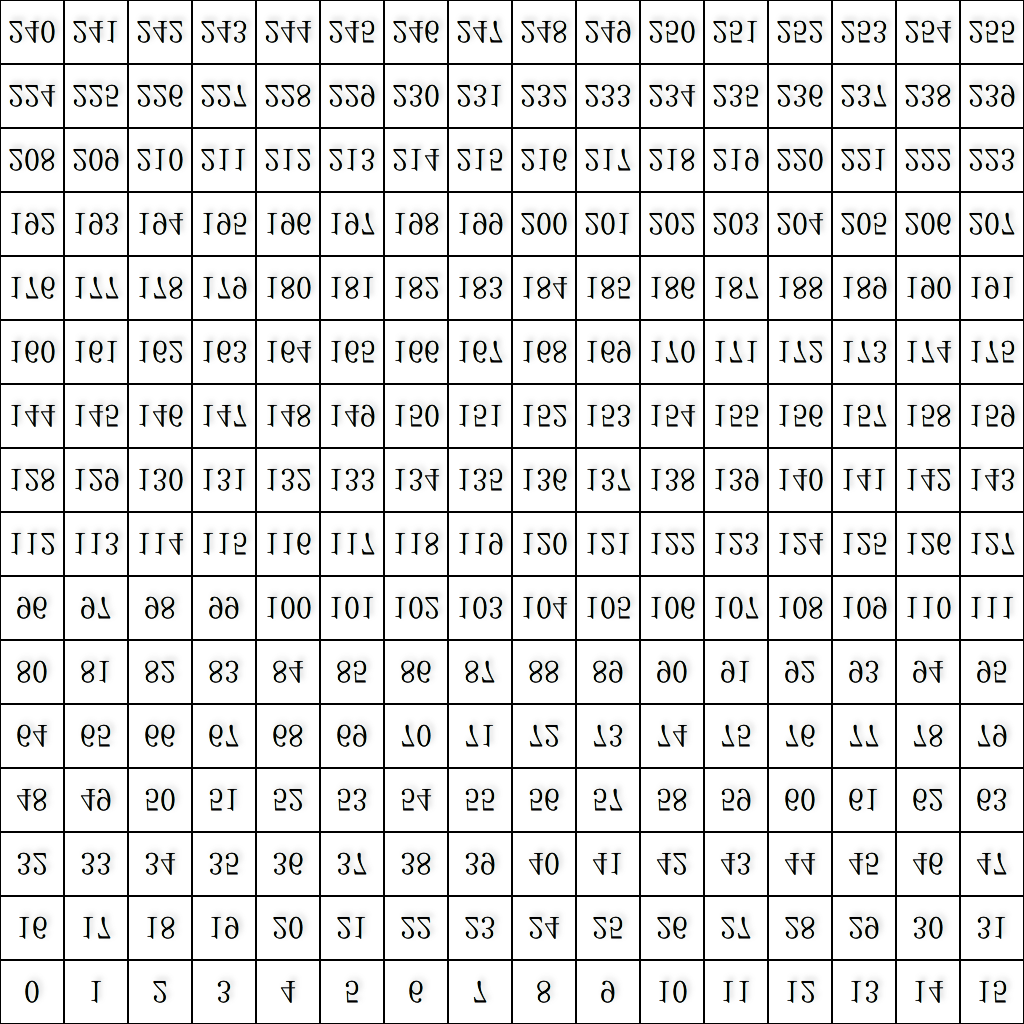
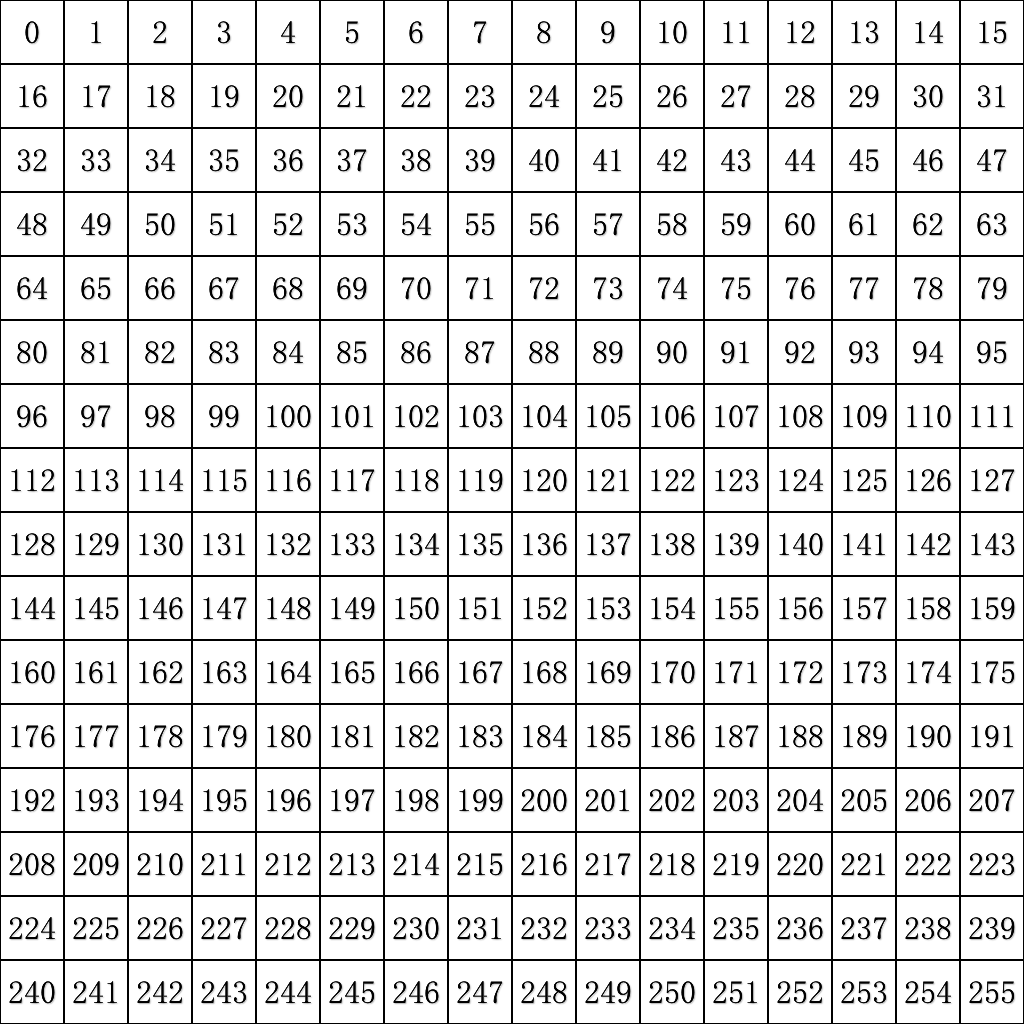
+test code

Changed region(s): [[0.0, 0.0, 1.0, 1.0], [0.5938, 0.4688, 0.625, 0.5312]]

diff --git a/chapter02/quickrendertoimage/myqml/quickrendertoimage/TestInputQMLFile.qml b/chapter02/quickrendertoimage/myqml/quickrendertoimage/TestInputQMLFile.qml
@@ -30,9 +30,9 @@ Rectangle{
 
                 DropShadow {
                         anchors.fill: parent
-                        horizontalOffset: 3
-                        verticalOffset: 3
-                        radius: 8.0
+                        horizontalOffset: 1
+                        verticalOffset: 1
+                        radius: 3.0
                         samples: 17
                         color: Qt.rgba(0.3,0.3,0.3,0.3)
                         source: _id_text

diff --git a/chapter02/quickrendertoimage/sstd_Window.cpp b/chapter02/quickrendertoimage/sstd_Window.cpp
@@ -18,6 +18,84 @@ namespace sstd {
 }
 
 namespace {
+    /*这里不做缓存优化...*/
+    void flipUpDownByComputShader(GLuint varTexture,const QSize & varSize) {
+        const auto varComputeHeight = ( varSize.height() >> 1 );
+        if (varComputeHeight < 0) {
+            return;
+        }
+        GLuint varProgram{0};
+        varProgram = glCreateProgram();
+
+        {
+            auto varShaderSource = u8R"___(
+#version 450
+
+layout(local_size_x = 1       , 
+       local_size_y = 1       ,
+       local_size_z = 1    ) in ;
+
+layout(binding = 0,rgba8ui) uniform uimage2D argImageInputOutput;
+layout(location = 1)        uniform int argImageHeight;
+
+void main(void) {
+    ivec2 varPos0 = ivec2( gl_WorkGroupID.xy ) ;
+    ivec2 varPos1 = ivec2( varPos0.x,argImageHeight - varPos0.y );
+    uvec4 varColor0 = imageLoad(argImageInputOutput,varPos0 );
+    uvec4 varColor1 = imageLoad(argImageInputOutput,varPos1 );
+    imageStore(argImageInputOutput,varPos0,varColor1);
+    imageStore(argImageInputOutput,varPos1,varColor0);
+}
+
+/*一个简单的图像上下颠倒shader*/
+
+)___"sv;
+
+            auto varShader = glCreateShader(GL_COMPUTE_SHADER);
+            {
+                GLint varSL = static_cast<GLint>(varShaderSource.size());
+                const char *varS[]{ varShaderSource.data() };
+                glShaderSource(varShader, 1, varS, &varSL);
+                glCompileShader(varShader);
+                glAttachShader(varProgram, varShader);
+                glLinkProgram(varProgram);
+
+                if constexpr (false) {
+
+                    auto printProgramInfo = [](GLuint e) {
+                        /*获得错误大小*/
+                        GLint log_length = 0;
+                        glGetProgramiv(e, GL_INFO_LOG_LENGTH, &log_length);
+                        log_length += 16;
+
+                        /*获得一段内存，并初始化为0*/
+                        sstd::string infos_;
+                        infos_.resize(log_length);
+
+                        /*获得错误并输出*/
+                        char * info = infos_.data();
+                        glGetProgramInfoLog(e, 1024, nullptr, info);
+                        qDebug() << info;
+                    };
+
+                    printProgramInfo(varProgram);
+                }
+
+                glDeleteShader(varShader);
+            }
+        }
+        
+        glUseProgram(varProgram);
+        glUniform1i(1, varSize.height()-1);
+        glBindImageTexture(0, varTexture, 0, false, 0, GL_READ_WRITE, GL_RGBA8UI);
+        glDispatchCompute(varSize.width(), varComputeHeight, 1);
+        glFinish();
+        glDeleteProgram(varProgram);
+
+    }
+}/*namespace*/
+
+namespace {
     inline QString urlPathToLocalPath(const QString & arg) {
         auto tmp = arg;
         tmp.replace(QChar('\\'), QChar('/'));
@@ -93,6 +171,7 @@ namespace sstd {
                 if (!mmm_Engine.incubationController()) {
                     mmm_Engine.setIncubationController(this->incubationController());
                 }
+                this->setColor(QColor(0,0,0,0));
             }
 
             void setSource(const QUrl & arg) noexcept(false) {
@@ -217,6 +296,7 @@ namespace sstd {
             ErrorRender(const QString &arg) :mmm_ErrorString(arg) {
             }
             QImage getErrorImage() const {
+
                 return {};
             }
         };
@@ -267,9 +347,12 @@ namespace sstd {
 
             const QSize varRenderSize =
                 varRenderPack->sourceWindow->size();
-            /*create fbo ...*/
-            varRenderPack->sourceFBO = sstd::make_unique<QOpenGLFramebufferObject>(varRenderSize,
-                QOpenGLFramebufferObject::CombinedDepthStencil);
+            /*create fbo ...
+            there use default internal fotmat rgba8 ...*/
+            varRenderPack->sourceFBO = sstd::make_unique<QOpenGLFramebufferObject>(
+                varRenderSize,
+                QOpenGLFramebufferObject::CombinedDepthStencil,
+                GL_TEXTURE_2D);
             varRenderPack->sourceWindow->setRenderTarget(varRenderPack->sourceFBO.get());
             /*init render control ...*/
             varRenderPack->sourceControl->initialize(varRenderPack->sourceContex.get());
@@ -302,6 +385,10 @@ namespace sstd {
             BEGIN_TRY;
             QImage varImage{ varRenderPack->sourceFBO->size(),QImage::Format_RGBA8888 };
             const auto varTexture = varRenderPack->sourceFBO->texture();
+            /******************************************************************/
+            /*flip up down by compute shader ... */
+            flipUpDownByComputShader(varTexture, varRenderPack->sourceFBO->size());
+            /******************************************************************/
             glBindTexture(GL_TEXTURE_2D, varTexture);
             glGetTexImage(GL_TEXTURE_2D, 0, GL_RGBA, GL_UNSIGNED_BYTE,
                 const_cast<uchar *>(varImage.constBits())/*do not clone ...*/);
